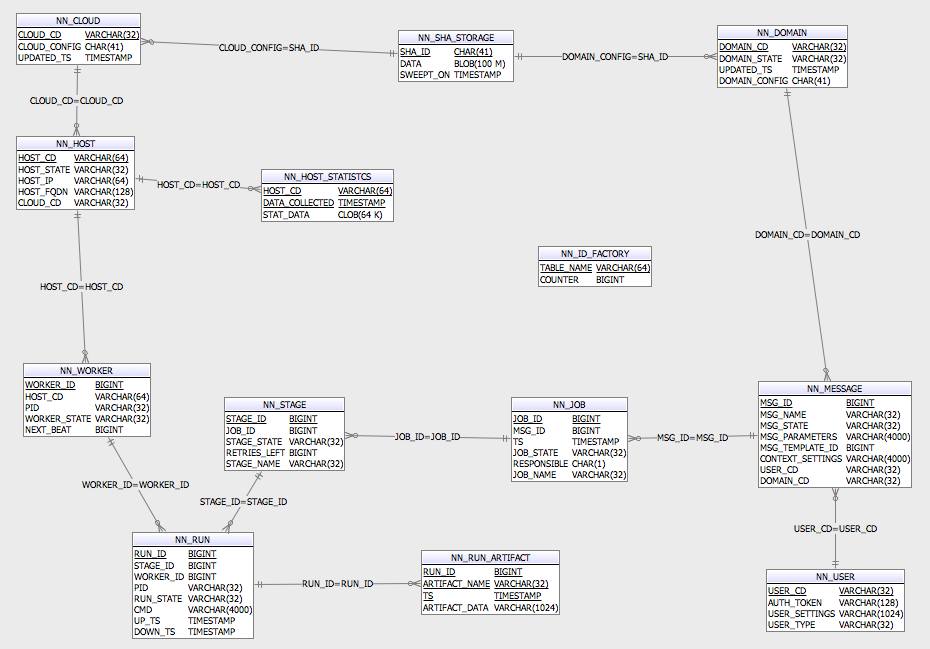
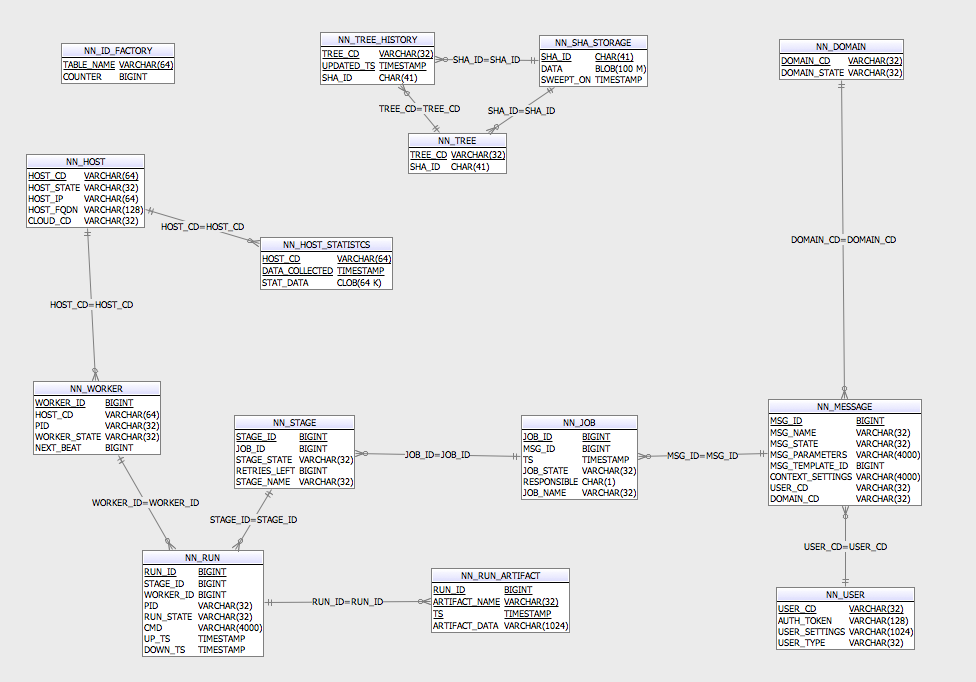
data model change

diff --git a/src/org/beequeue/msg/DomainState.java b/src/org/beequeue/msg/DomainState.java
@@ -17,5 +17,5 @@
 package org.beequeue.msg;
 
 public enum DomainState {
-	UP, DOWN
+	SHELVED, UP, DOWN
 }
